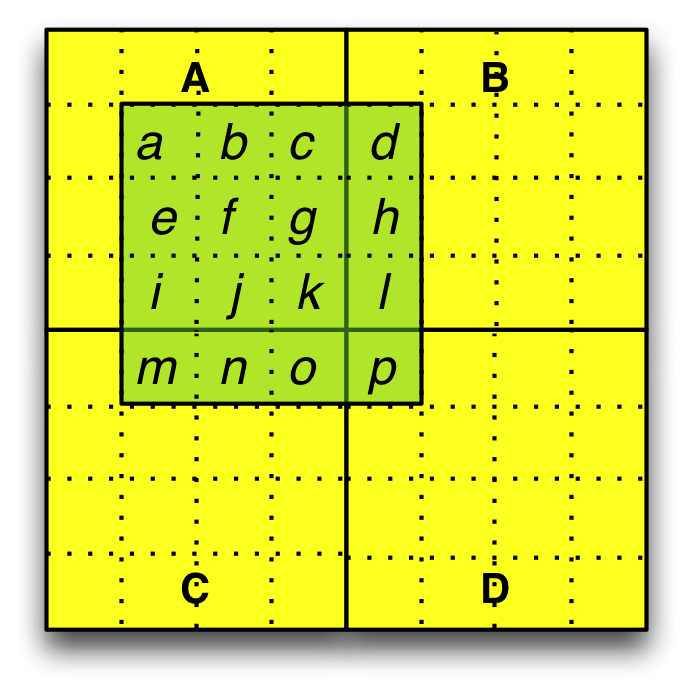
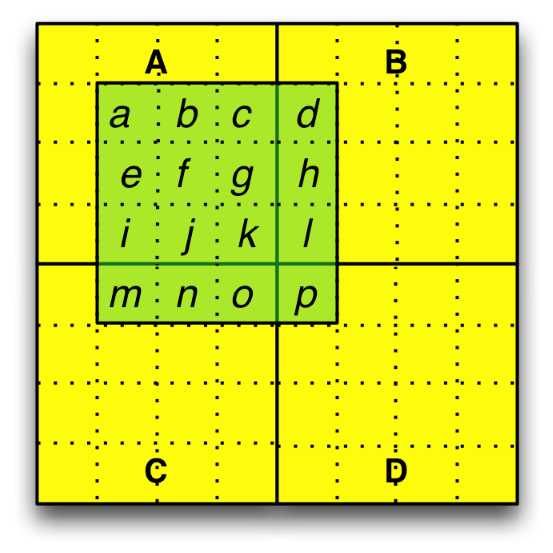
Resize images

diff --git a/documentation/hdf5-docs/advanced_topics/data_flow_pline_H5Dread.md b/documentation/hdf5-docs/advanced_topics/data_flow_pline_H5Dread.md
@@ -1,6 +1,6 @@
 ---
 title: HDF5 Data Flow Pipeline for H5Dread
-redirect\_from:
+redirect_from: display/HDF5/HDF5+Data+Flow+Pipeline+for+H5Dread
 ---
 
 # HDF5 Data Flow Pipeline for H5Dread
@@ -95,11 +95,11 @@ status = H5Sselect\_hyperslab(space\_src, H5S\_SELECT\_SET, start\_src, NULL,
  
 Figure 1 shows a conceptual representation of dataset D with uncompressed data. The desired region and the chunks that contain it are shown in green and yellow, respectively.
 
-![Figure 1: Conceptual representation of dataset D](../images/DataFlow_H5Dread-figure1.jpg){: height="40%"}
+![Figure 1: Conceptual representation of dataset D](../images/DataFlow_H5Dread-figure1.jpg)
 
 In Figure 1, the chunks and region of interest are represented by the yellow and green areas of the diagram. Figure 2 shows an enlarged view of the region and chunks, with labels added. The dashed lines delineate individual elements in the dataset. Elements in the region of interest have been labeled so they can be traced through the pipeline process.
 
-![Figure 2: Conceptual representation of region and chunks in dataset D](../images/DataReadPipeline-4Chunks.png){: height="30%"}
+![Figure 2: Conceptual representation of region and chunks in dataset D](../images/DataReadPipeline-4Chunks.png)
 
 Figure 3 shows a more accurate depiction of the chunks and elements in the region as they could be laid out on disk. Note that data in each chunk is stored contiguously on disk, and that the chunks have unequal sizes due to compression of the data.
 

diff --git a/documentation/hdf5-docs/advanced_topics_list.md b/documentation/hdf5-docs/advanced_topics_list.md
@@ -18,7 +18,7 @@ redirect_from: display/HDF5/Advanced+Topics+in+HDF5
 | [File Space Management](advanced_topics/) | Describes mechanisms to manage space in an HDF5 file |
 | [Fine-tuning the Metadata Cache](advanced_topics/) | Describes how to provide better control of the metadata cache |
 | [Freeing Memory Allocated by the HDF5 Library](https://docs.hdfgroup.org/hdf5/rfc/RFC%20H5free_memory%20v2.pdf) | Describes how inconsistent memory management can cause heap corruption or resource leaks and possible solutions |
-| [HDF5 Data Flow Pipeline for H5Dread](advanced_topics/data_flow_pline_H5Dread.md) | Describes data flow when reading raw data from an HDF5 dataset |
+| [HDF5 Data Flow Pipeline for H5Dread](https://github.com/HDFGroup/hdf5doc/blob/master/html/Advanced/DataFlow_H5Dread/DataFlow_H5Dread.pdf) | Describes data flow when reading raw data from an HDF5 dataset |
 | [HDF5 Metadata](advanced_topics/) | Provides a comprehensive overview of the types of metadata used in HDF5 |
 | [Introduction to Single-Writer_Multiple-Reader (SWMR)](advanced_topics/intro_SWMR.md) | Enables writing to a file while multiple readers are accessing it |
 | [Introduction to the Virtual Dataset - VDS](advanced_topics/intro_VDS.md) | Describes how to present data stored in several HDF5 datasets and files as a single dataset and access the data using HDF5 APIs |
